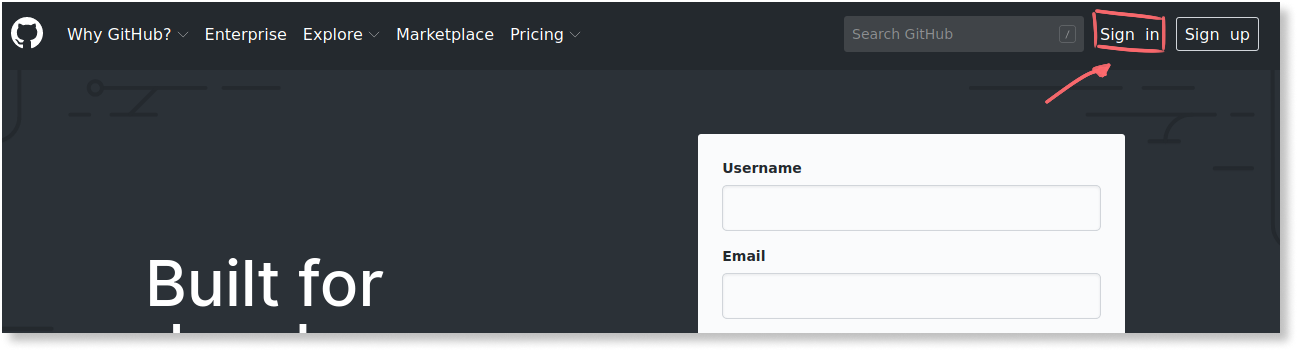
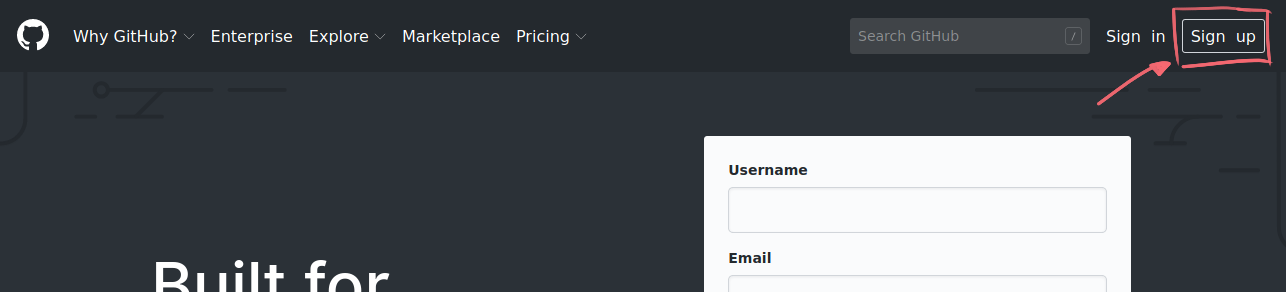
Adicionado a imagem de cadastro do GitHub

Changed region(s): [[0.0, 0.0, 1.0, 1.0], [0.8087, 0.2158, 0.8398, 0.2774]]

diff --git a/ebook/02-dia-1.md b/ebook/02-dia-1.md
@@ -382,6 +382,12 @@ Entre no site [https://github.com](https://github.com) clique no link *Sign up* 
 
 Preencha os campos *Username* (nome do usuário), *Email address* (Endereço de email), *Password* (senha), resolva o puzzle (enigma) e por último clique no botão azul com o texto *Next: Select a plan*:
 
+![Tela de cadastro da conta](img/criar-usuario-github.png)
+
+Depois você terá que estolher o plano do GitHub, não é necessário contratar nenhum plano no começo dos estudos, então escolha a opção free.
+
+**Obs.** Se não aparecer a tela dos planos, só clique no logo do GitHub que fica no topo do lado direito para sair da tela que você está, fique tranquilo se entrou nessa tela o próprio GitHub definiu que sua conta é a versão free.
+
 ![Escolhendo plano free do GitHub](img/plano-free.png)
 
 Se tudo der certo você verá a tela de boas-vindas do GitHub:
